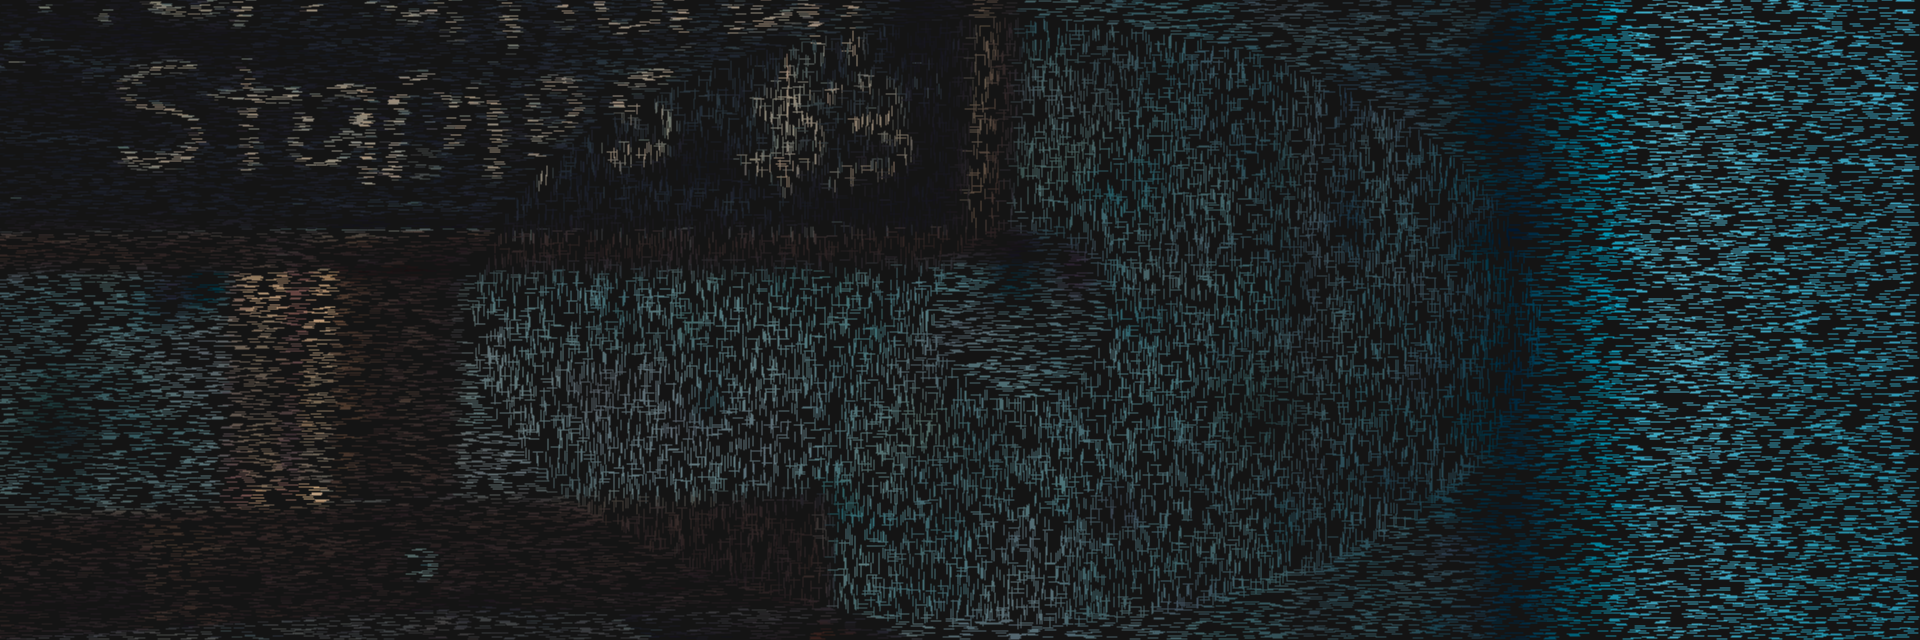
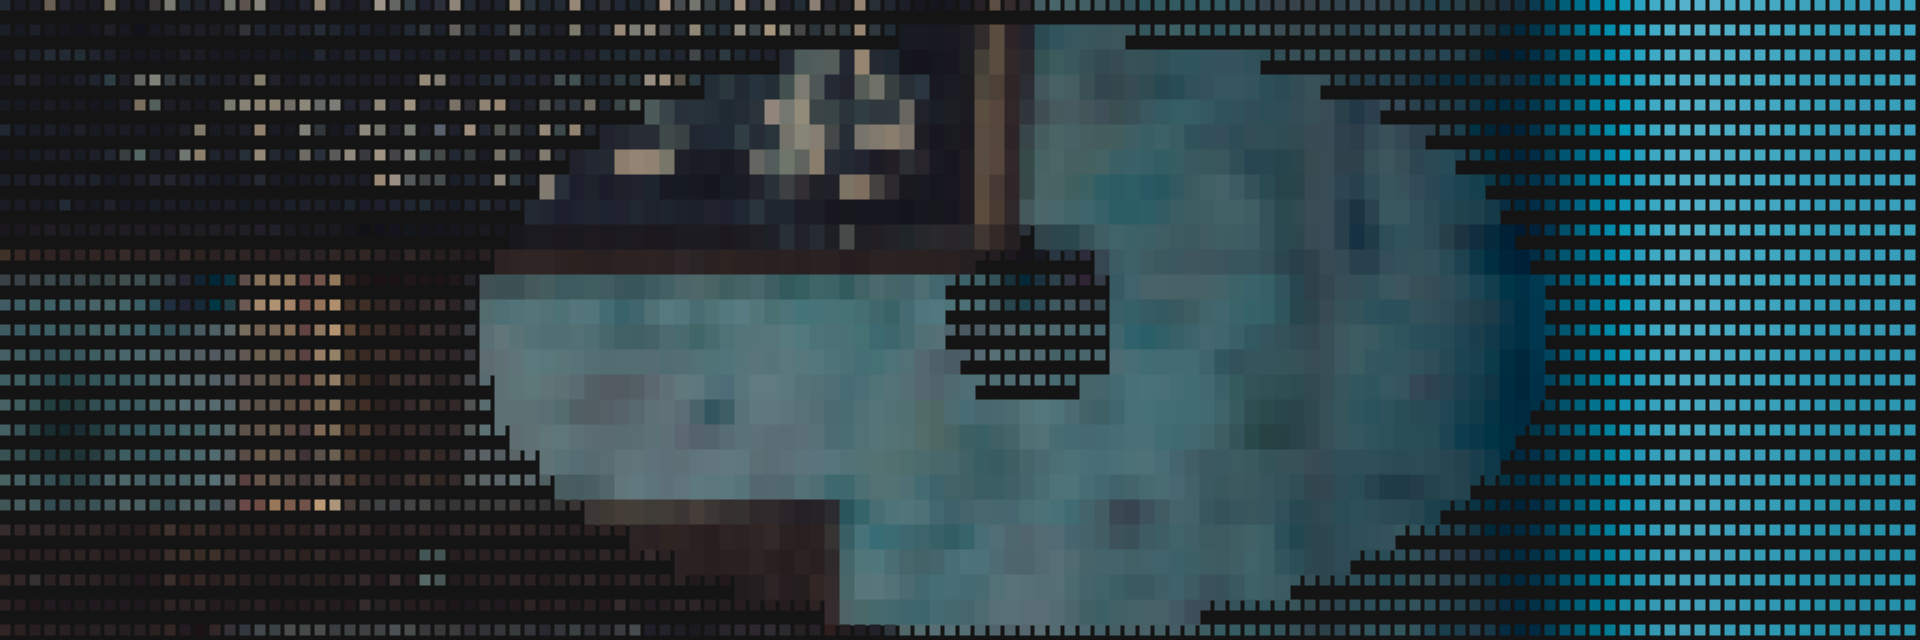
Knock

diff --git a/sketch.js b/sketch.js
@@ -3,9 +3,9 @@ let maskImg=null;
 let renderCounter=0;
 
 // change these three lines as appropiate
-let sourceFile = "input_1.png";
-let maskFile   = "mask_1.png";
-let outputFile = "output_1.png";
+let sourceFile = "input_3.png";
+let maskFile   = "mask_3.png";
+let outputFile = "output_3.png";
 
 function preload() {
   sourceImg = loadImage(sourceFile);
@@ -23,30 +23,50 @@ function setup () {
   maskImg.loadPixels();
 }
 
+const tileHeight = 10;
+const tileWidth = 10;
+
+const x_step = 15;
+const y_step = 25;
+
 function draw () {
 
-  for(let i = 0; i < 3000; i++) {
-    let x = floor(random(sourceImg.width));
-    let y = floor(random(sourceImg.height));
-    let pix = sourceImg.get(x, y);
-    let mask = maskImg.get(x, y);
-    fill(pix);
-    stroke(pix);
-    console.log(mask);
-
-    let pointSize = (10);
-    let dice = random(1, 6);
-    if (mask[0] > 128) {
-     //if (dice > 4){
-     line(x, y, x + pointSize - 20, y); //Wind
-
-   } else {
-     if (dice > 5){
-       line(x, y, x + pointSize - 20, y); //Wind
-     } else {
-       line(x, y, x, y + pointSize); //Rain
-    }
+  for(var x = 0; x < sourceImg.width; x = x+ x_step){
+    for(var y = 0; y < sourceImg.height; y = y+ y_step){
+        let pix = sourceImg.get(x, y);
+        let mask = maskImg.get(x, y);
+        fill(pix);
+        stroke(pix);
+         if (mask[0] > 128) {
+        rect(x,y,tileWidth,tileHeight);
   }
+  else{
+    rect(x,y,x_step,y_step);
+  }
+}
+
+
+  //for(let i = 0; i < 3000; i++) {
+  //  let x = floor(random(sourceImg.width));
+  //  let y = floor(random(sourceImg.height));
+  //  let pix = sourceImg.get(x, y);
+  //  let mask = maskImg.get(x, y);
+  //  fill(pix);
+  //  stroke(pix);
+
+  //  let pointSize = (10);
+    //let dice = random(1, 6);
+  //  if (mask[0] > 128) {
+     //if (dice > 4){
+    // line(x, y, x + pointSize - 20, y); //Wind
+
+  // } else {
+  //   if (dice > 5){
+    //   line(x, y, x + pointSize - 20, y); //Wind
+  //   } else {
+  //     line(x, y, x, y + pointSize); //Rain
+  //  }
+//  }
 
     //if(mask[0] > 128) {
     //  let pointSize = 50;
@@ -62,7 +82,7 @@ function draw () {
     console.log("Done!")
     noLoop();
     // uncomment this to save the result
-     //saveArtworkImage(outputFile);
+    // saveArtworkImage(outputFile);
   }
 }
 

diff --git a/README.md b/README.md
@@ -1,7 +1,7 @@
 ## Creative Coding 2: Custom Pixel
 
-6/6/2020, 14:05
+6/6/2020, 17:30
 
-Stamps.
+Grid.
 
-More progressive experimentation, more of an idea behind potential experiments.
+I quite like where this is going, I think it has potential to be something pretty deep and charismatic. For now, I am merely going to commit this as more progression reference.
